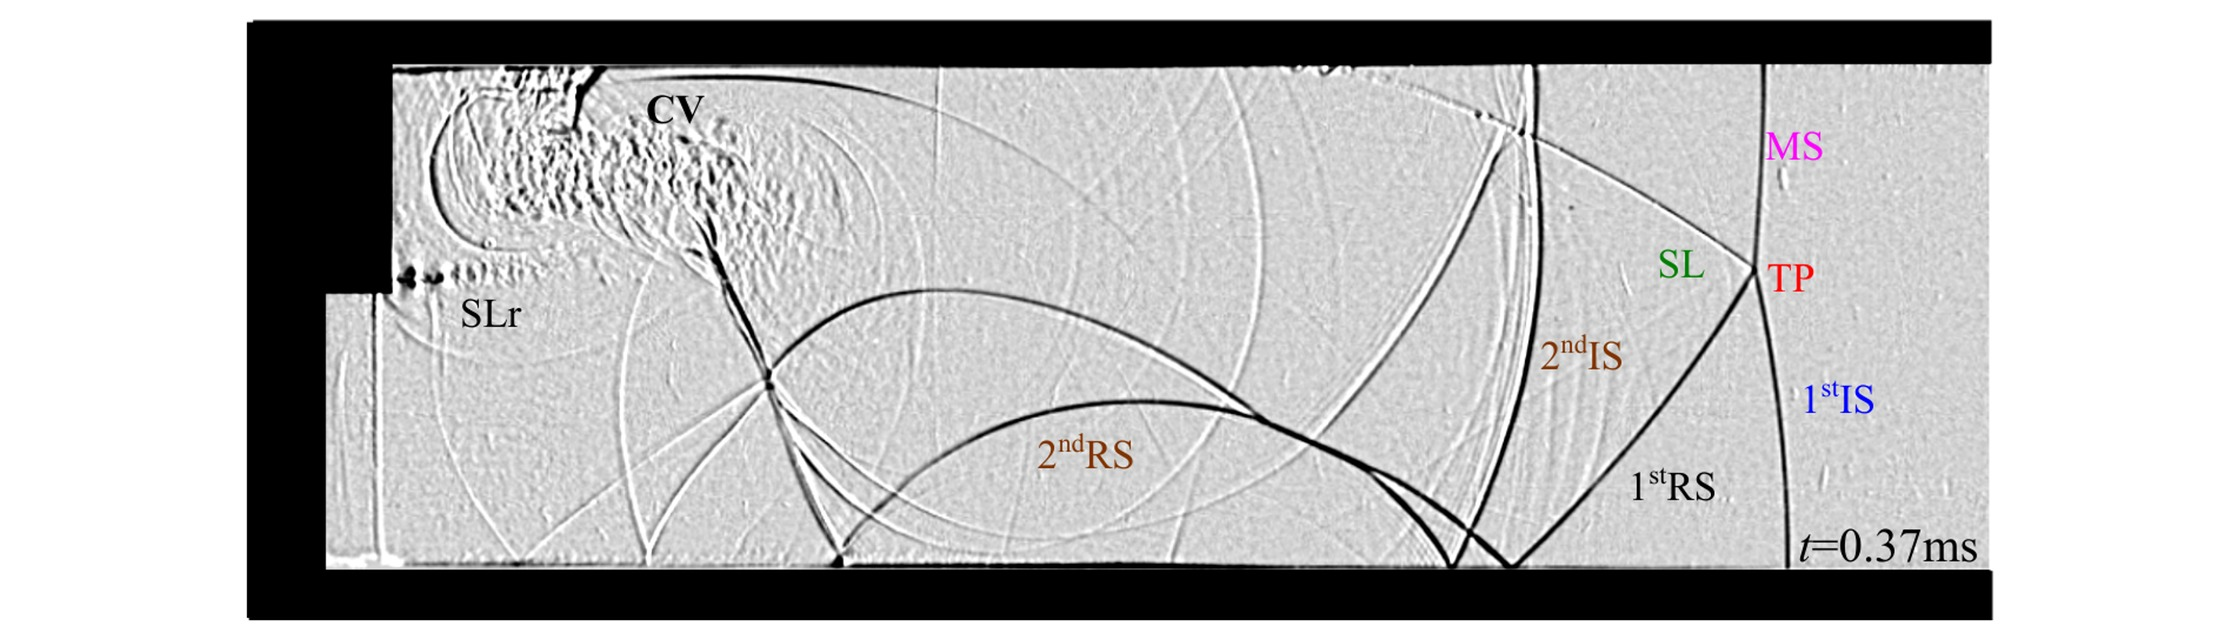
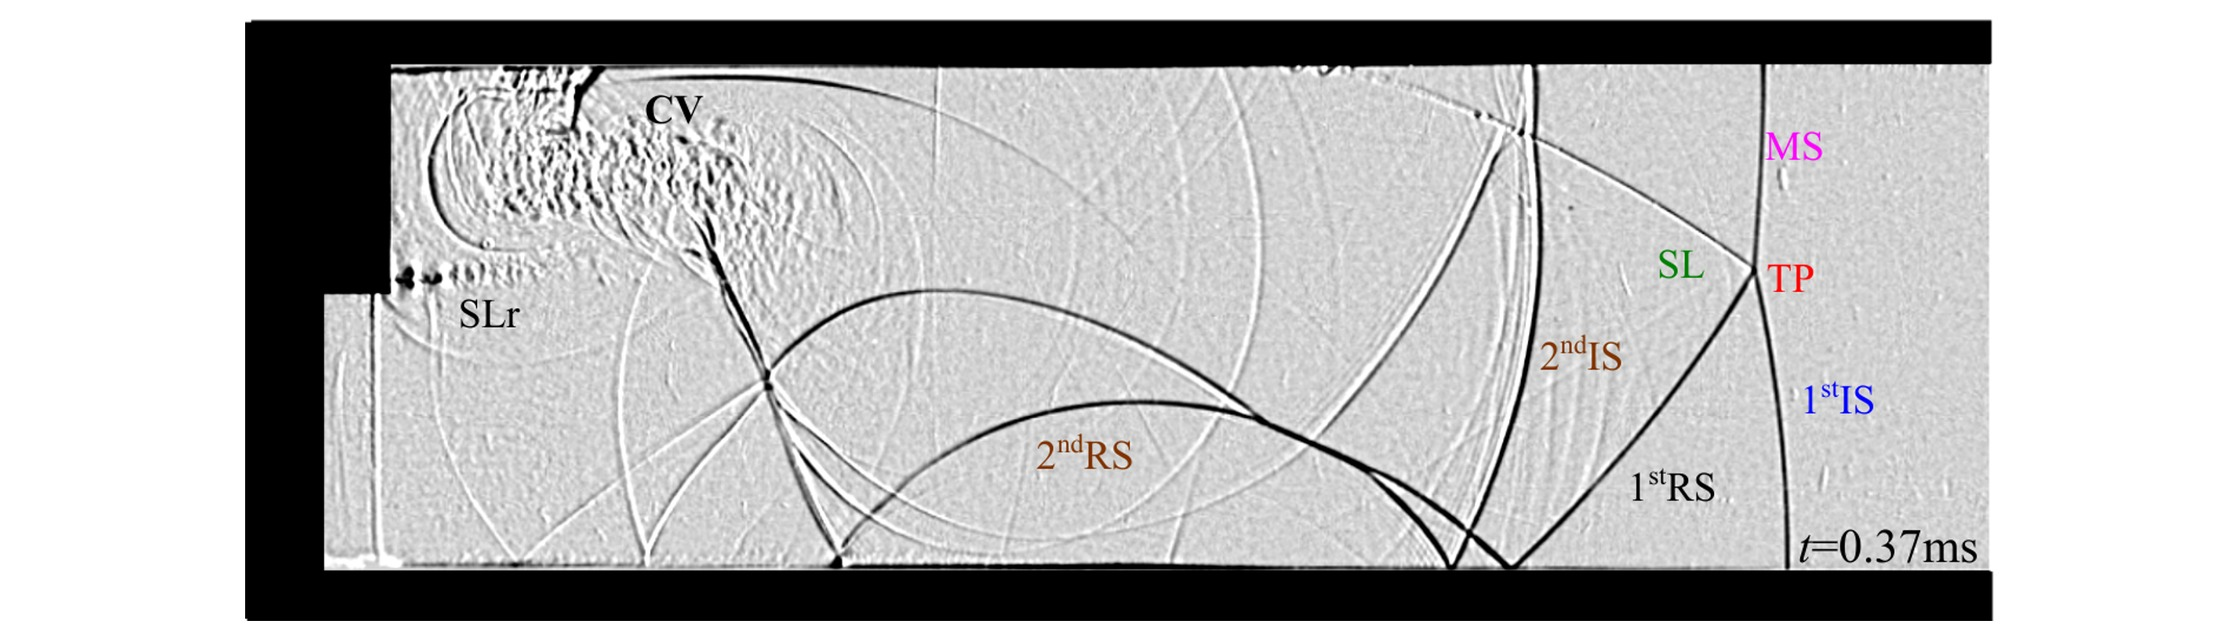
Ribbon: six frames, and peel the outline off pasted figures
Add the particle cloud for inertial solids in pipe flow, the LE-DM panels
for the dynamic masking page and the constriction series for shock
interaction with local constrictions.

The particle cloud also corrects a wrong guess: the earlier, smaller
export of that same figure was pointed at dynamic masking, which is the
LE-DM page.

Figures pasted out of PowerPoint carry a hairline grey rule, so trimming
to content kept the rule rather than the figure's own edge. The rule does
not always run the whole way round -- it is on the right of one of these
and the bottom and left of another -- so each side is now tested and
peeled on its own: a near-uniform light-grey line covering almost the
whole edge. Three of the six needed it.

diff --git a/templates/research.html b/templates/research.html
@@ -13,7 +13,9 @@
   ('ribbon/turbulence-jet.jpg',       '/research/turbulence-in-round-pipes/', 'Turbulence in round pipes across area changes'),
   ('ribbon/shock-triple-point.jpg',   '/research/shock-waves-area-changes/',  'Shock waves through abrupt area changes'),
   ('ribbon/sphere-wakes.png',         '/research/rising-spheres/',            'Tomo-PTV of buoyancy driven spheres'),
-  ('ribbon/tracked-particles.jpg',    '/research/dynamic-masking/',           'Seeing the flow right next to a moving body')
+  ('ribbon/solids-in-pipe.jpg',       '/research/solids-in-pipe-flow/',       'Inertial solids in high-speed pipe flow'),
+  ('ribbon/ledm-panels.png',          '/research/dynamic-masking/',           'Seeing the flow right next to a moving body'),
+  ('ribbon/shock-constrictions.jpg',  '/research/shock-local-constriction/',  'Shock interaction with local constrictions')
 ] %}
 <div class="wrap">
 <div class="ribbon" data-ribbon>
